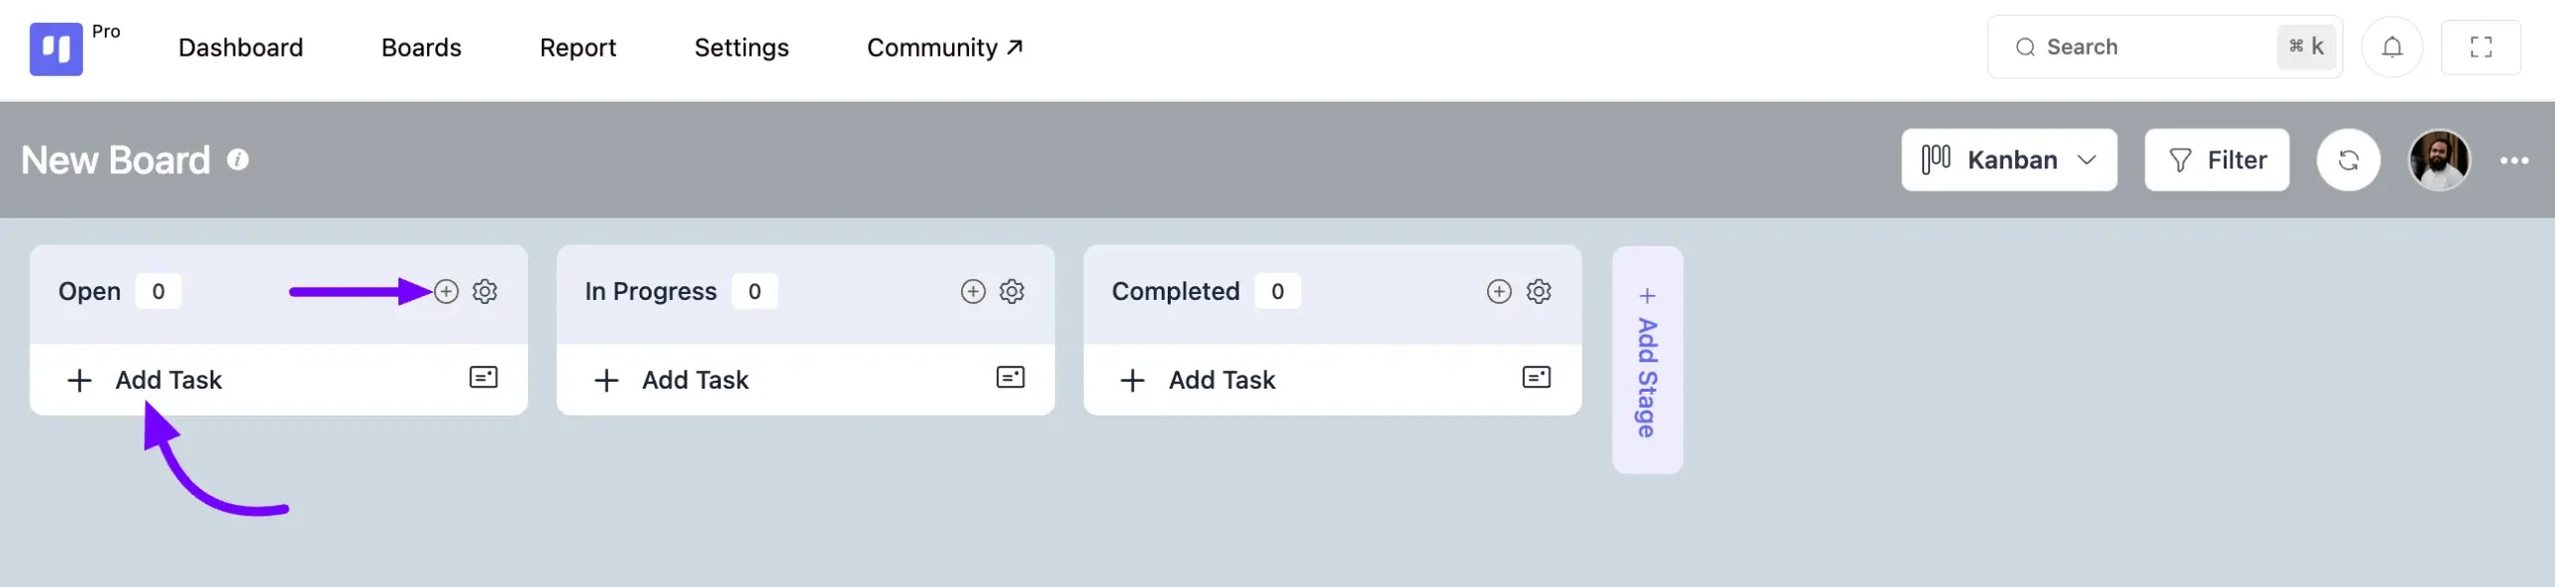
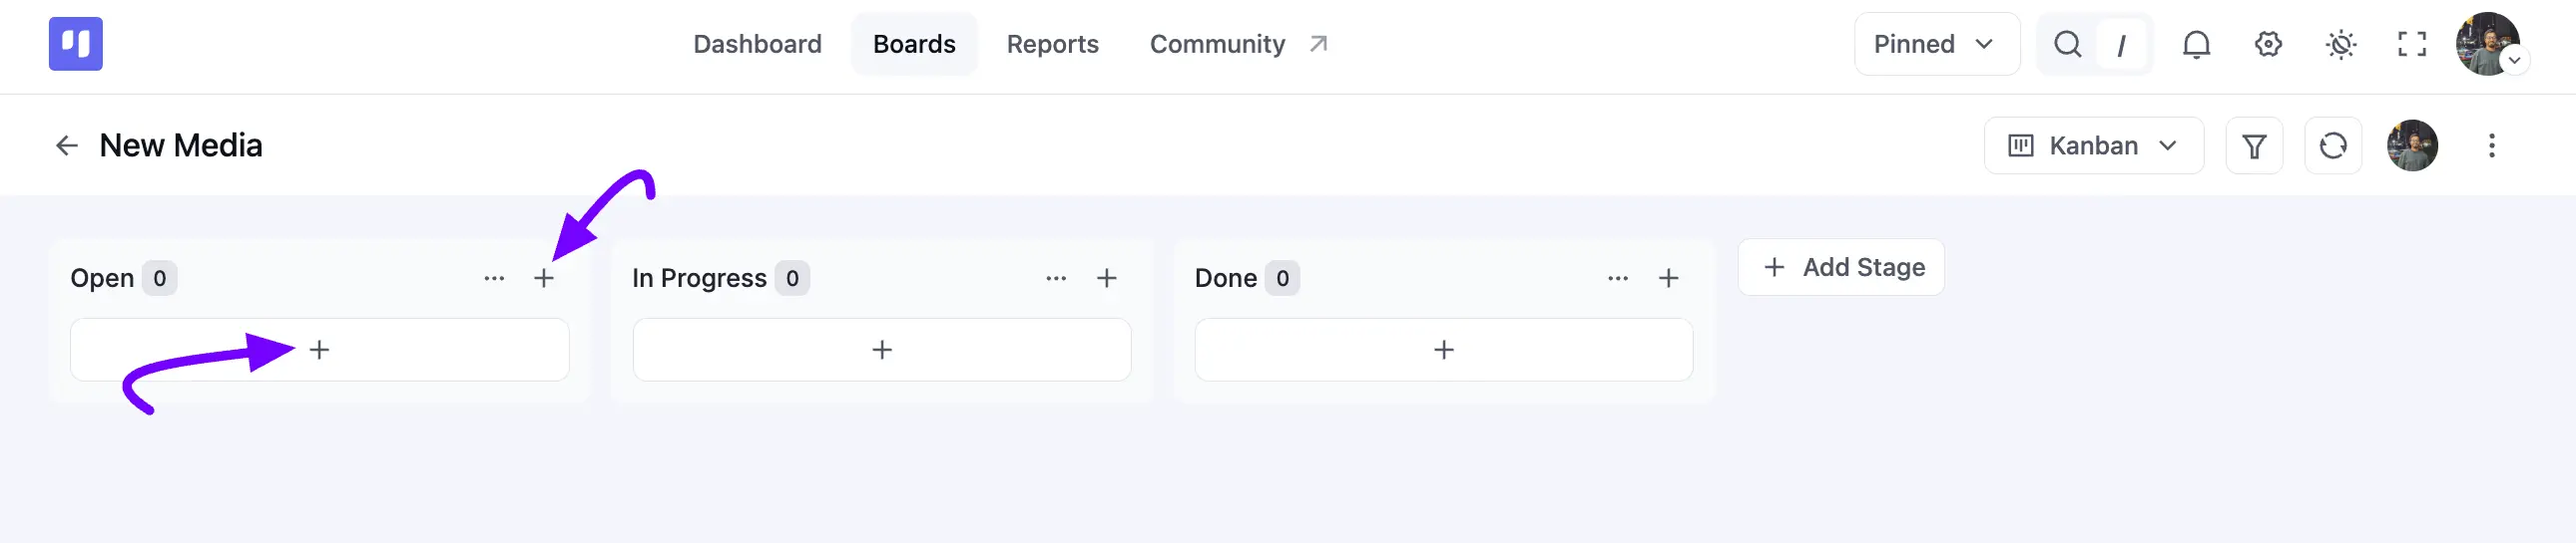
Creating and Managing Tasks rewrite this documentation

diff --git a/docs/tasks/how-to-create-a-new-task.md b/docs/tasks/how-to-create-a-new-task.md
@@ -4,169 +4,193 @@ You can easily add tasks with several features to your boards. FluentBoards make
 
 ## Adding New Task
 
-Just head over to the board where you want to add the task. Then, you can either click on the **Add Task** button within the stages or click on the **Plus** icon button at the top of the stage to add a task.
+Just head over to the board where you want to add the task. Then, you can either click on the **Plus** icon button at the top of the stage to add a task.
 
 You can also drag and drop or paste an image directly onto the Kanban view, and FluentBoards will instantly create a new task with that image attached.
 
 ![task creation in boards ](../public/images/task-management/how-to-create-a-new-task/Task-Creation-in-Boards--scaled.webp)
 
-Give a **Title** for your **Task** and click on the **Save** button then your task will be added to your board stage.
+A quick-create pop-up will appear. Give a **Title** for your **Task**, and add a description if you'd like. From here, you can also set the **Stage**, **Priority**, **Labels**, **Background**, and dates right away, or click **Start From Template** to create the task from an existing template. 
 
-![adding task title](../public/images/task-management/how-to-create-a-new-task/adding-Task-title-scaled.webp)
+Once you're done, click the **Create Task** button and your task will be added to your board stage.
+
+![adding task title](../public/images/task-management/how-to-create-a-new-task/adding-Task-details-2.webp)
 
 ## Task Management Options
 
-Click on the task card, and you'll find many features here to help you manage your task effectively. Below, we'll describe each of them in detail.
+Click on the task card, and you'll find many features here to help you manage your task effectively. 
 
-![task details](../public/images/task-management/how-to-create-a-new-task/Task-Details-scaled.webp)
+The redesigned Task Details Modal keeps all of these features in one clean view, with your task's **Properties**, **Labels**, and **CRM Contact** neatly organized on the right side. 
+
+Below, we'll describe each of them in detail.
+
+![task details](../public/images/task-management/how-to-create-a-new-task/Task-Details-3.webp)
 
 ### Assignees
 
-Click on the **Assignee Add** button to see all the board members listed. Click on the **Plus** icon next to the members' names to add them as assignees to your task.
+Under **Properties**, click on the assignee icon to open the **Assign to** search box. Here you will see your board members listed, along with any other users who have access to the board. Simply search or click on a name to add them as an assignee to your task.
 
-![asignee adding](../public/images/task-management/how-to-create-a-new-task/Asignee-Adding-scaled.webp)
+![asignee adding](../public/images/task-management/how-to-create-a-new-task/Asignee-Adding-4.webp)
 
-## Due Date
+### Due Date
 
-You have the option to add a start date and due date with time to your task. Simply click on the **Set Dates** button to access these options, input your desired dates, and then click **Save**. Your dates will be added to your task with time accordingly.
+You have the option to add a start date and due date with time to your task. Simply click on the **Set Date** button under **Properties** to access these options.
 
-![adding date](../public/images/task-management/how-to-create-a-new-task/Adding-Date-scaled.webp)
+Here you will see a calendar to pick your **Due Date**, along with a time field next to it. Check the **Start Date** box to also set a start date, and check **Set Reminder** to pick when you'd like to be notified before the due date. 
+
+Once you're done, click the **Save** button, and your dates will be added to your task accordingly.
+
+![adding date](../public/images/task-management/how-to-create-a-new-task/Adding-Date-5.webp)
 
 ### Task and Subtask Reminders
 
-Once you've set a due date for a task or subtask, you can also add a reminder so you're notified exactly when you need to be. Choose to be reminded 30 minutes, 1 hour, 1 day, or 1 week before the due date, and never miss a deadline again.
+Once you've set a due date for a task or subtask, you can also add a reminder so you're notified exactly when you need to be. Choose to be reminded before the due date, and never miss a deadline again.
 
 ### Priority
 
-Click on the **Priority** button to designate the priority level of your task as **High**, **Medium**, or **Low**. Also, you can customize task priority levels via the [filter hook](https://developers.fluentboards.com/hooks/filters/#fluent_boards_task_priorities){:target="_blank"}.
+Click on the **Set Priority** button under **Properties** to designate the priority level of your task as **Urgent**, **High**, **Medium**, or **Low**, or leave it as **No Priority**. Also, you can customize task priority levels via the [filter hook](https://developers.fluentboards.com/hooks/filters/#fluent_boards_task_priorities){:target="_blank"}.
 
-![task priority](../public/images/task-management/how-to-create-a-new-task/Task-Priority-scaled.webp)
+![task priority](../public/images/task-management/how-to-create-a-new-task/Task-Priority-6.webp)
 
 ### **Labels**
 
-You can add a **Label** to your task based on your needs. To add or create a label, click on the **Plus** icon button placed under **Label**.
+You can add a **Label** to your task based on your needs. To add a label, click on the **Plus** icon button placed under **Labels**.
 
-A pop-up will appear where you need to click on the **Add New Label** button or **Pencil** icon button and enter a **name** for your label. You can also choose a **color** for your label from the default options or select a **custom color** of your choice.
+A **Change or add labels** pop-up will appear with your board's default color labels. Simply check the **Checkbox** next to a label to apply it, or type in the search field to find or create a new one.
 
-Once you're done, click the **Save** button. If you want to remove a label, simply click the **Delete** button.
-
-![label 4](../public/images/task-management/how-to-create-a-new-task/Label-4-1-scaled.webp)
+![label 4](../public/images/task-management/how-to-create-a-new-task/Label-7.webp)
 
 ### Description
 
-You can provide a detailed description using the **Add Media** and various options in the **Description** field. Once you've added your description, click on the **Save** button.
+You can provide a detailed description for your task right in the **Description** field. Type **/** to open the block menu, where you can insert a **Heading**, **Quote**, **Divider**, **Bullet List**, **Ordered List**, and more, just like a Markdown editor.
 
-You can expand the task description to a large mode by clicking the **Fullscreen Icon.**
+Once you select or highlight your text, a formatting toolbar appears with **Bold**, **Italic**, **Strikethrough**, **Code**, **Link**, and list options, so you can format your description exactly how you'd like.
 
-![description 01](../public/images/task-management/how-to-create-a-new-task/description-01-scaled.webp)
+![description 01](../public/images/task-management/how-to-create-a-new-task/description-8.webp)
 
-After that, the description option expands tasks to full screen. Then click the **Save** button to save description.
+Simply click on the **AI** icon in the description toolbar to open the **AI Writing Assistant**. From here, you can ask it to write, improve, shorten, expand, format, or fix the grammar of your description, or give it a custom instruction of your own.
 
-![description 02](../public/images/task-management/how-to-create-a-new-task/description-02.webp)
+> Your site admin needs to connect an AI provider (OpenAI, Claude, Gemini, or the WordPress AI client) before the **AI Writing Assistant** appears.
+
+### AI Task Assistant
+
+FluentBoards can use AI to help you manage a task's content. Click on the **AI Assist** button in the task details panel to see the available options.
+
+- **Summarize:** Get a short summary of the task description and its comment history.
+- **Generate Subtasks:** Let AI suggest a set of Subtasks based on the task's title and description.
+- **Suggest Labels & Priority:** Let AI recommend Labels and a **Priority** level for the task, based on its content.
+
+Review the suggestions in the preview, then click the **Apply** button to add the suggested Subtasks, Labels, or Priority to your task.
 
 ### Attachments
 
-To add an attachment to your task, click the **Add Attachment** button. A pop-up will appear with options to attach a file, link, or text.
+To add an attachment to your task, click the **Add Attachment** link. A pop-up will appear where you can click **Browse File** to choose a file from your computer, or drag and drop it in directly. FluentBoards accepts images, PDFs, documents, video, and more, up to 100 MB.
 
-After adding your attachment details, click the **Add Link** button to save it to the task.
+You can also paste a link instead. Simply add the URL under **Paste a Link**, give it a **Display Text**, and click the **Add Link** button.
 
-![attachment](../public/images/task-management/how-to-create-a-new-task/Attachment-scaled.webp)
+Once added, your attachments appear in a list under the **Attachments** heading, and you'll see its own upload progress for every file, so you always know how each one is doing.
+
+![attachment](../public/images/task-management/how-to-create-a-new-task/Attachment-11.webp)
 
 ### Adding Subtasks
 
-You can break down your tasks into smaller, more manageable parts by creating Subtasks. With the addition of Subtask Groups, you can now organize these items for a clearer workflow.
+You can break down your tasks into smaller, more manageable parts by creating Subtasks. With Subtask Groups, you can organize these items for a clearer workflow.
 
-Follow these steps to add Subtask Groups and Subtasks to your tasks:
+Follow these steps to add Subtasks to your task:
 
-1. To get started, simply click on a task to open the task details panel. From the actions menu on the right, click the **Subtask** button.
-2. A pop-up will appear prompting you to **Create Subtask Group**. Give your group a title and click the **Save** button.
-3. Once the group is created, you will see it listed within your task.
-4. Simply type the subtask title and click the **Save** button. You can create multiple subtask groups and add as many subtasks as you need.
+1. Simply click on the **Add Subtask** link in your task.
+2. A pop-up will appear. Enter your **Subtask Title**, and add any **Notes** for extra detail right here.
+3. Choose an existing **Subtask Group** from the dropdown, or type a new name to create one.
+4. From here, you can also set a **Date** and an **Assignee** for the subtask.
+5. Once you're done, click the **Create Subtask** button. You can add as many subtasks and subtask groups as you need.
 
-![fluentboards subtask](../public/images/task-management/how-to-create-a-new-task/FluentBoards-subtask-scaled.webp)
-
-#### **Adding a Note to a Subtask**
-
-For subtasks that require more detail, you can add a descriptive note to provide clearer instructions for the assignee.
-
-1. After a subtask has been created, locate it within its Subtask Group.
-2. Along with the subtask's title, click the **Add Note** icon.
-3. A **Simple Notes (Optional)** pop-up will appear. Enter your detailed description or instructions in the text area.
-4. Click the **Save** button to attach the note to that specific subtask.
-
-![subtask note](../public/images/task-management/how-to-create-a-new-task/Subtask-note-.webp)
+![fluentboards subtask](../public/images/task-management/how-to-create-a-new-task/FluentBoards-subtask-12.webp)
 
 ### CRM Contact
 
-Add a CRM contact to your task, click on the **CRM Contact** button, and choose the CRM Contact you want to associate with your task.
+To add a CRM contact to your task, click on the **CRM Contact** button. A **Select Contact** pop-up will appear where you can search for a contact by **name or email**. 
 
-If needed, you can also remove the CRM contact from your task by clicking on the **Delete** button along with the CRM contact.
+Once you've found the right one, click the **Save** button to link it to your task.
 
-![board fluentboards crm](../public/images/task-management/how-to-create-a-new-task/Board-FluentBoards-CRM-scaled.webp)
+![board fluentboards crm](../public/images/task-management/how-to-create-a-new-task/adding-crm-contact-13.webp)
 
 ## Mark as Task Completed
 
-Click on the **Circle** icon button to mark your task as completed.
+Click on the **Circle** icon button next to your task title to mark your task as completed. A tooltip will remind you that this is where you can **Click to change Status**.
 
-![Click on the Circle icon button to mark your task as completed.](../public/images/task-management/how-to-create-a-new-task/Screenshot-2024-10-14-at-4.21.39 PM-1.webp)
+![Mark as Complate](../public/images/task-management/how-to-create-a-new-task/mark-task-complate-14.webp)
 
 ### Task Clone
 
-To clone a task, click the three-dot menu on the task card and select **Clone Task**. A pop-up will ask you to choose a stage for the new task. Similarly, you can clone any subtask using its own three-dot menu, and it will be duplicated within the same task. Note: Cloning is only possible for items within the same board.
+To clone a task, click the three-dot menu at the top of the task details panel and select **Clone Task**. Similarly, you can clone any subtask using its own three-dot menu, and it will be duplicated within the same task. Note: Cloning is only possible for items within the same board.
 
-![task clone](../public/images/task-management/how-to-create-a-new-task/TAsk-Clone--scaled.webp)
+This same menu also has your other task actions, like **Copy Task Link**, **Pin Task**, **Watching**, **Move**, **Make Template**, **Convert to Subtask**, **Archive Task**, and **Delete Task**. Check out the [Task Actions](/task-action) guide to learn more about these.
+
+![task clone](../public/images/task-management/how-to-create-a-new-task/TAsk-Clone-15.webp)
+
+### Add Custom Field
+
+Click on the **Add Custom Field** link in your task. A **Create New Custom Field** pop-up will appear.
+
+Enter a **Title** for your field, then choose its **Type**: **Text**, **Number**, **Select**, **Multi Select**, **Date**, or **Checkbox**. For more details on custom fields, check out the [Custom Fields](/custom-fields-for-task) guide.
+
+![Adding Custom File](../public/images/task-management/how-to-create-a-new-task/add-custom-field-16.webp)
 
 ### Task Comments and Activities
 
-Below, you'll find the **Comments** and **Activities** section for the task. Only board members have the ability to comment on tasks and reply to them.
+Below, you'll find the **Activity** section for the task, redesigned for a cleaner look. Only board members have the ability to comment on tasks and reply to them.
 
-![comments](../public/images/task-management/how-to-create-a-new-task/Comments.webp)
+Click on the **three-dot** icon next to **Activity** to filter the feed by **All**, **Comments**, or **Activities**.
 
-Click on the **Activities** button and you will see all the Activities related to the Task.
+Choosing **Comments** shows only the comments left on the task, and you can click **Add a Reply** under any comment to reply to it.
 
-![activites](../public/images/task-management/how-to-create-a-new-task/Activites.webp)
+![comments](../public/images/task-management/how-to-create-a-new-task/Comments-17.webp)
+
+Choosing **Activities** shows a complete, timestamped history of everything that happened on the task, from creation to every label, title, or status change since.
+
+![activites](../public/images/task-management/how-to-create-a-new-task/activities-18.webp)
 
 ## Task Filter
 
-You can filter your tasks based on assignees, stages, due dates, priorities, labels, custom fields, task status, etc.
+You can filter your tasks based on assignees, stages, due dates, priorities, labels, CRM contacts, and task status.
 
-Click on the **Filter** option from the top right corner of your board.
+Click on the **Filter** icon from the top right corner of your board.
 
-![filter 01](../public/images/task-management/how-to-create-a-new-task/Filter-01-scaled.webp)
+![filter 01](../public/images/task-management/how-to-create-a-new-task/filter-19.webp)
 
-Here appears a pop-up. Now, you can filter your tasks.
+A **Filters** panel appears on the right. Now, you can filter your tasks.
 
-**A. Assignee:** This section allows you to filter tasks based on who they are assigned to.
+**A. Assignees:** This section allows you to filter tasks based on who they are assigned to.
 
-- If you check the **No Assignee**, only show the no-assign task in your board task.
-- To view only the tasks that are assigned to you, set the assignee filter to 'Task Assigned to Me'.
-- Task I am watching on will only show you the tasks that you have turned the watching mode on.
-- If you select an assignee person from the dropdown field, it only shows this person's assigned tasks.
+- Check **No Assignee** to only show tasks with no one assigned.
+- Check **Tasks Assigned To Me** to view only the tasks assigned to you.
+- Check **Tasks I'm Watching** to only show the tasks you've turned watching on for.
+- Use **Select Assignee** to pick a specific board member and see only their assigned tasks.
 
-**B. Stages:** This filter lets you filter tasks from your boards based on their selected task stages.
+**B. Stage:** Search or select a specific stage to filter tasks from your boards based on their stage.
 
 **C. Task Status:** You can filter your board tasks based on status.
 
-- **Open:** If you check the **Open** option, the board's task shows which are open.
-
-- **Marked as closed:** If you check the **Marked as closed** option, then tasks on your board that are closed will show up.
+- **Open:** Shows tasks that are still open.
+- **Closed:** Shows tasks that have been marked as completed.
+- **Archived:** Shows tasks that have been archived.
 
 **D. Due Date:** This section enables filtering based on task due dates.
 
-- **No dates:** When you check the **No dates** option, you will see your boards' tasks that are created without dates.
+- **No Dates:** Shows tasks that have no due date set.
+- **Overdue:** Shows tasks that have passed their due date.
+- **Task Due in This Week:** Shows tasks due sometime this week.
+- **Task Due Today:** Shows tasks due today.
+- **Task Due in Next Week:** Shows tasks due next week.
+- **Task Due in This Month:** Shows tasks due sometime this month.
+- **All Upcoming Task:** Shows every task with an upcoming due date.
 
-- **Overdue:** When you check the **Overdue** option, you will see the tasks that your board has not completed.
+**E. Priority:** This filter allows you to view tasks based on their **Urgent**, **High**, **Medium**, **Low**, or **No Priority** levels.
 
-- **Task due today**: If you check these **Task due today** options, you will see your boards' tasks that have not been completed today.
-- **Task due this week:** If you check **the Task due this week** option, you will see your board's tasks that have not been completed this week.
-- **Task due next week:** If you check these **Task due next week** options, you will see your boards' tasks that will not be completed in the next week.
-- **Task due this month:** If you check these **Task due this month** options, you will see the tasks that your boards will not complete.
-- **All upcoming tasks:** If you check these **options,** you will see your boards' upcoming tasks.
+**F. CRM Contacts:** Search or select a contact to only see tasks linked to that CRM contact.
 
-**E. Priority:** This filter allows you to view tasks based on their **High**, **Medium**, and **Low** priority levels.
+**G. Labels:** Check one or more **Labels** to only see tasks that have those labels applied.
 
-**F. CRM Contacts:** If you filter your tasks using this option, you'll only see tasks linked to the CRM contacts you select from the dropdown.
+![marketing board fluentboards](../public/images/task-management/how-to-create-a-new-task/filter-20.webp)
 
-![marketing board fluentboards](../public/images/task-management/how-to-create-a-new-task/Marketing-Board-FluentBoards-scaled.webp)
-
-If you have any further queries, please do not hesitate to contact our [@support team](https://wpmanageninja.com/support-tickets/?utm_source=wpmn&utm_medium=home&utm_campaign=site#/){:target="_blank"}.
+If you have any further queries, please do not hesitate to contact our [support team](https://wpmanageninja.com/support-tickets/?utm_source=wpmn&utm_medium=home&utm_campaign=site#/){:target="_blank"}.

diff --git a/docs/tasks/task-action.md b/docs/tasks/task-action.md
@@ -3,7 +3,7 @@
 The task creation pop-up includes several task actions that provide additional options for better task organization. These actions make task management easier and more effective:
 
 - **Join as Assignee**: Assign the task to yourself.
-- **Move**: Allows you to move the task to any board and stage.
+- **Move**: Allows you to move the task to any board and stage. This experience has been redesigned to make changing a task's stage or board quicker and clearer.
 - **Watching**: The **Watching** option lets users stay updated on changes and activities for a specific task.
 - **Pin Task**: Pin your most critical tasks so they stay at the top of your board, easy to find on busy boards.
 - **Change Cover**: Let you change the task card's cover color. Also, you can **Upload an Image** as a Task Cover.
